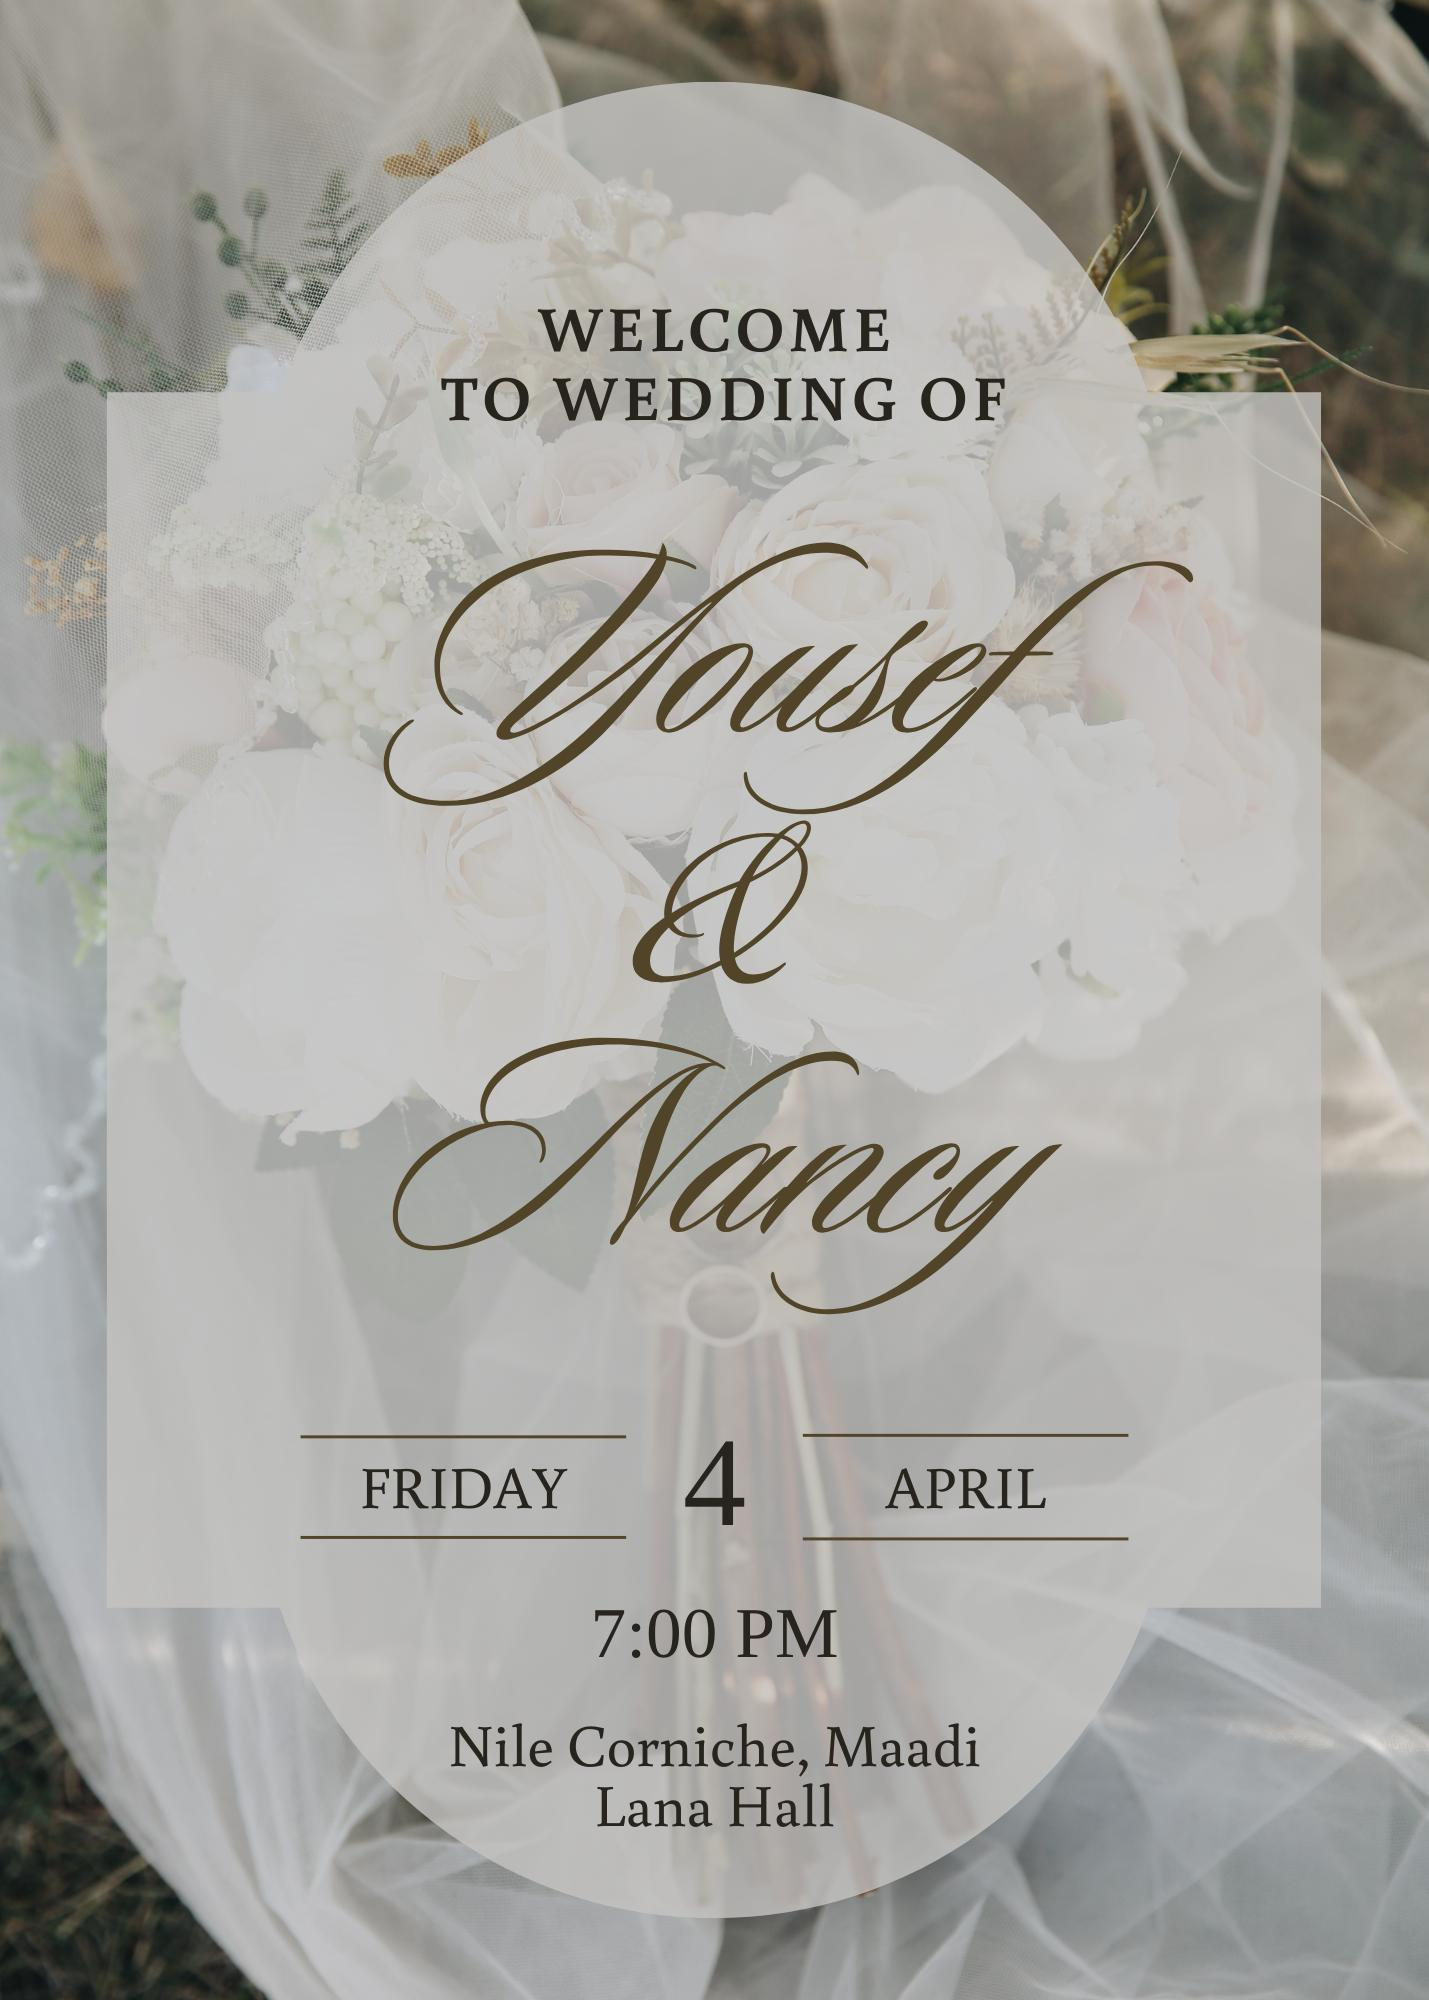
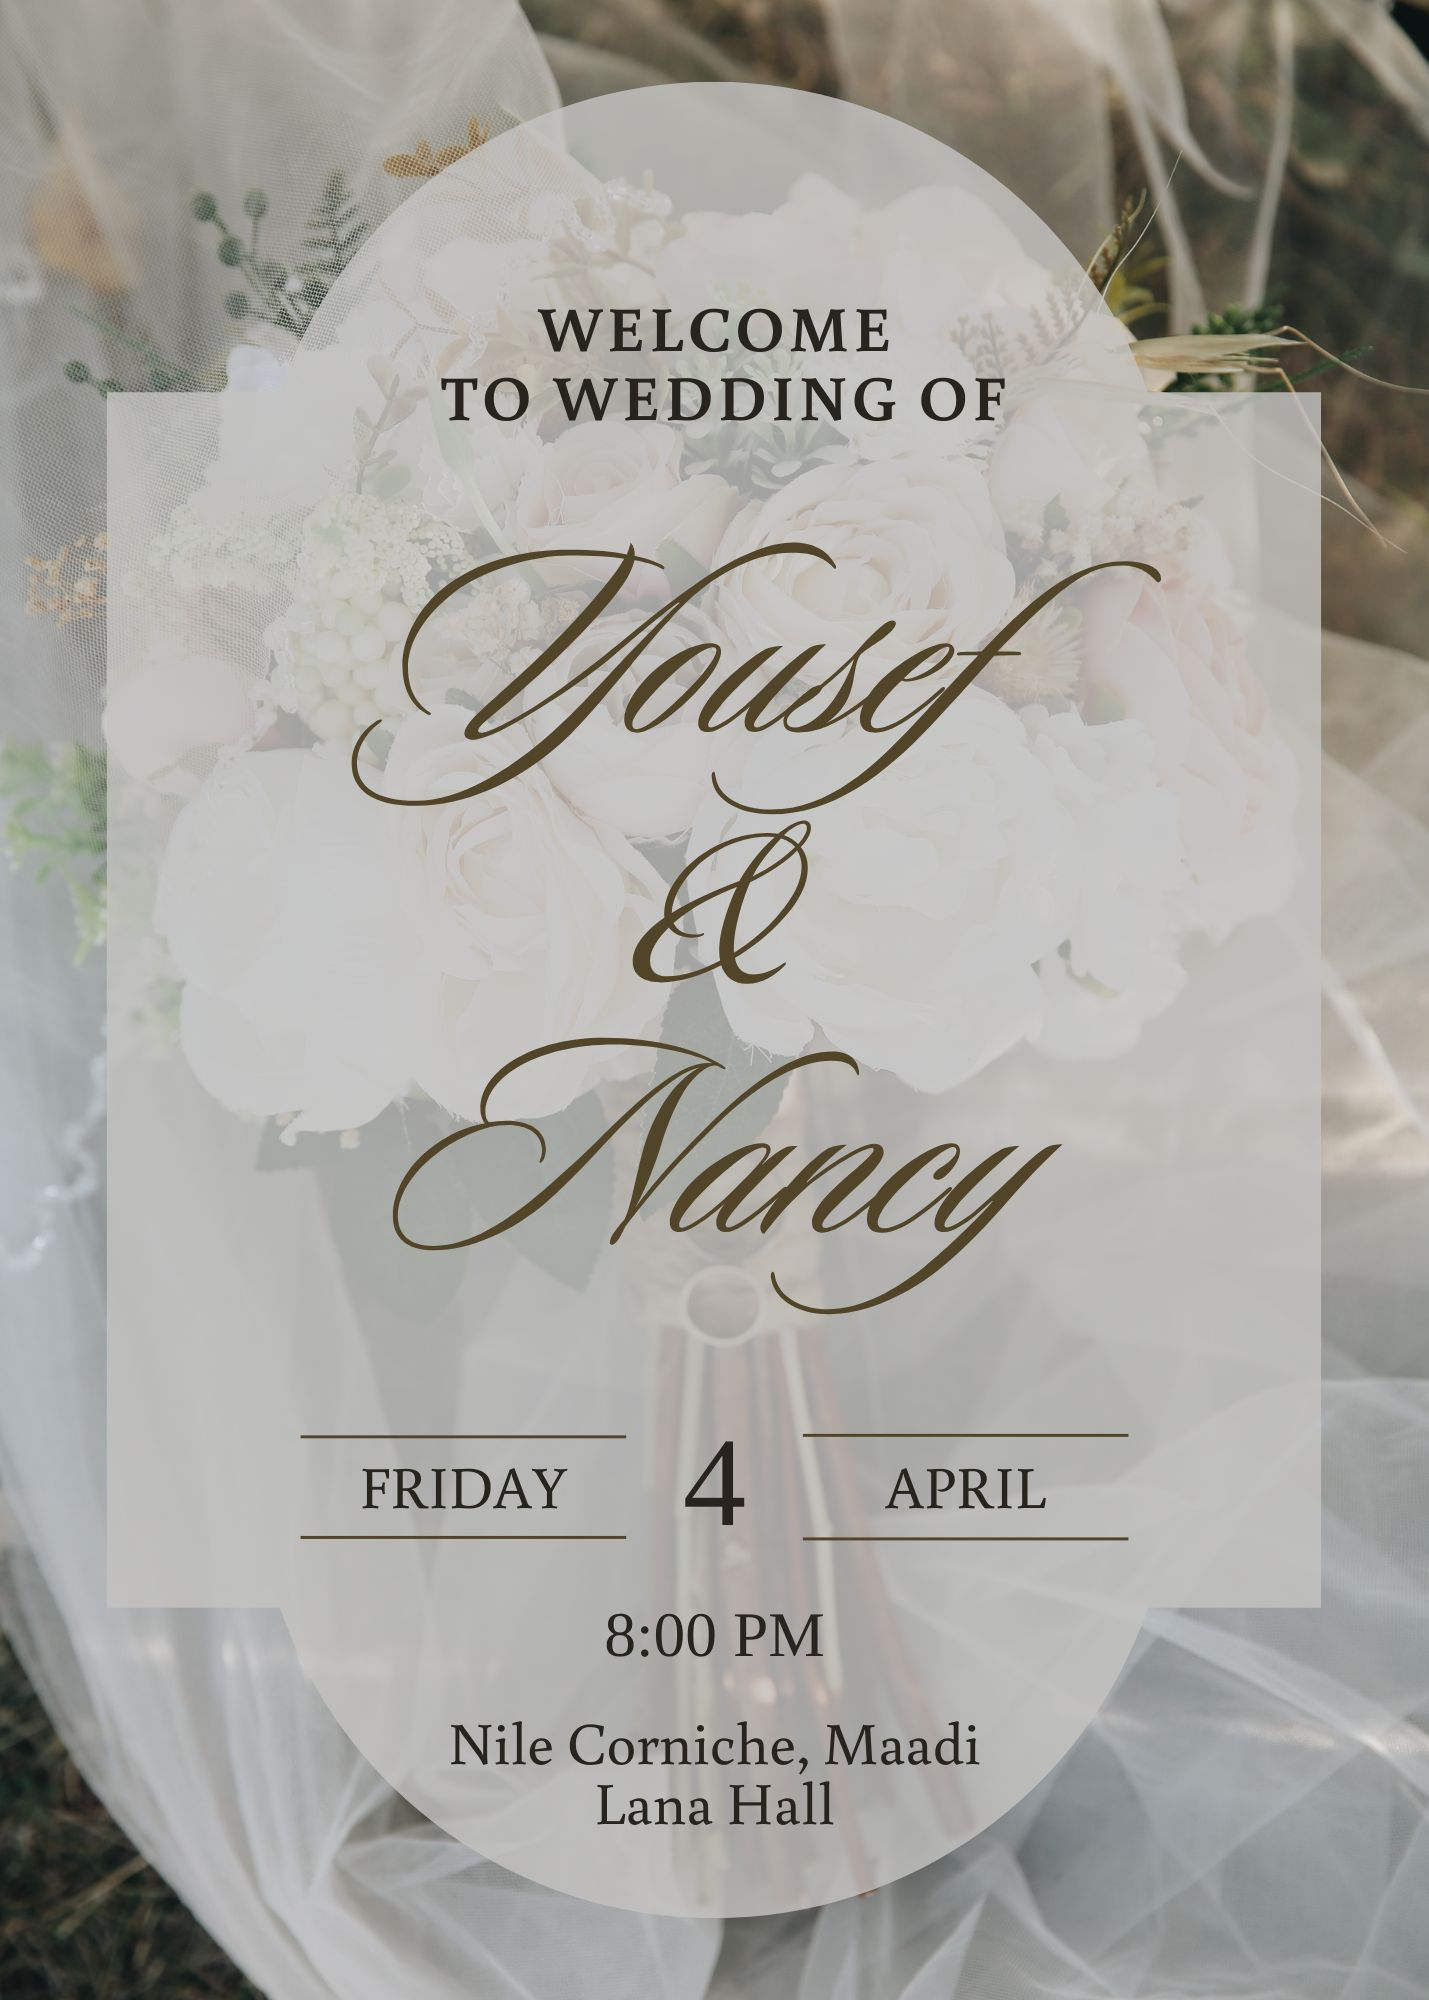
update

diff --git a/src/app/page.js b/src/app/page.js
@@ -6,7 +6,7 @@ export default function Home() {
   const [timeLeft, setTimeLeft] = useState("");
 
   useEffect(() => {
-    const targetDate = new Date("2025-04-04T19:00:00"); // Replace with your wedding date
+    const targetDate = new Date("2025-04-04T20:00:00"); // Replace with your wedding date
     const interval = setInterval(() => {
       const now = new Date();
       const difference = targetDate - now;
